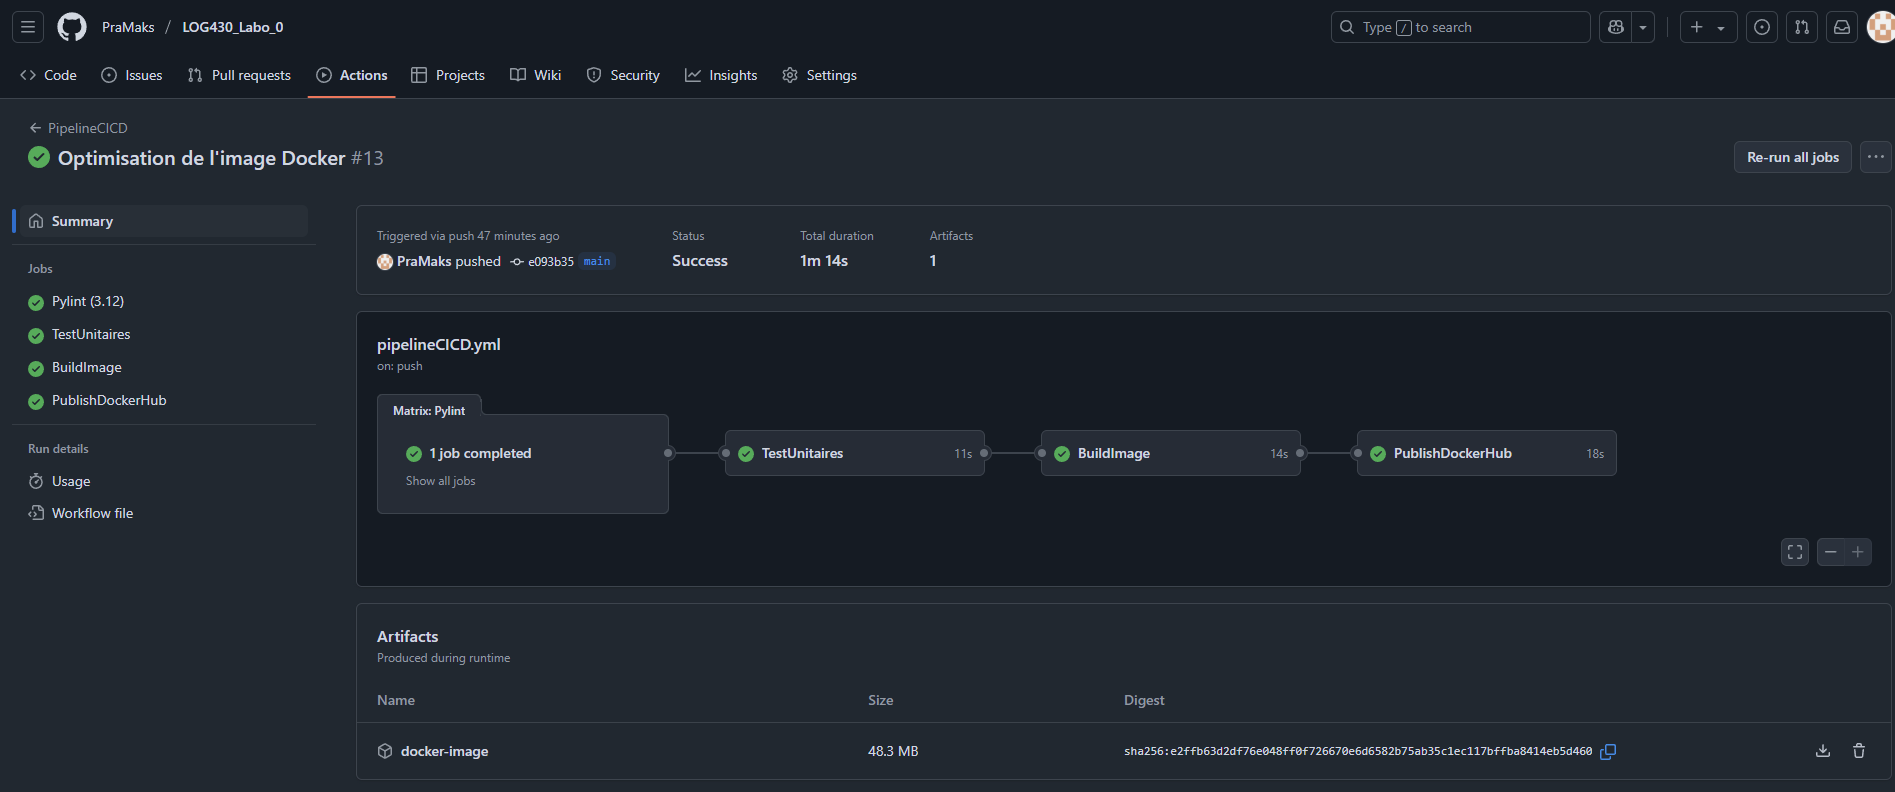
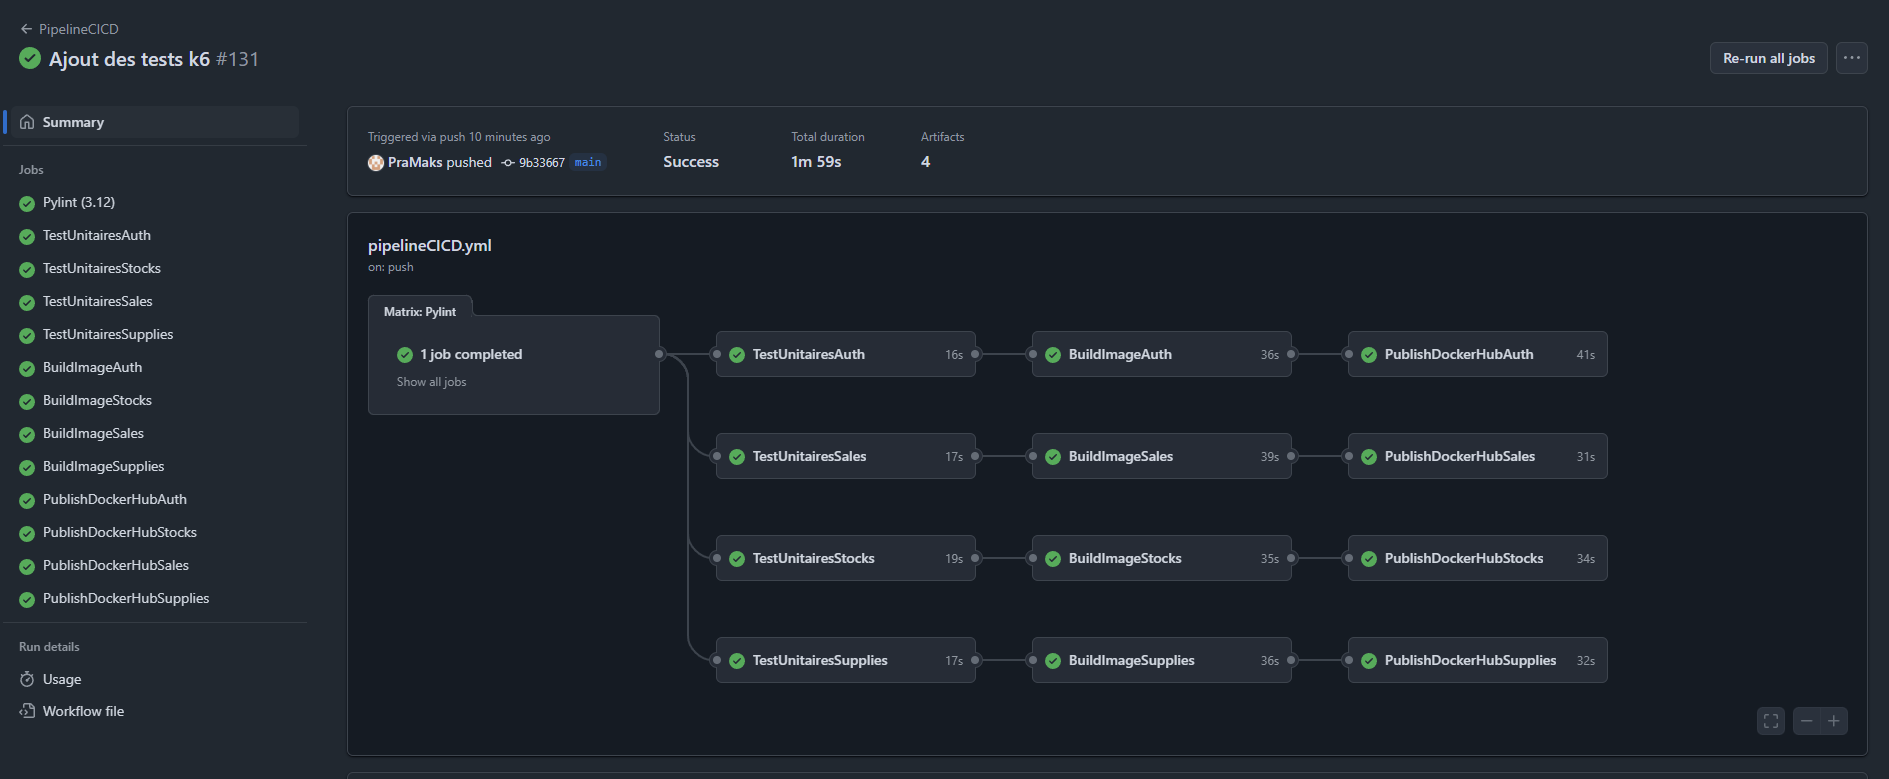
Début docum lab 5

diff --git a/README.md b/README.md
@@ -1,23 +1,23 @@
-# LOG430_Labo_3
+# LOG430_Labo_5
 
 ## Comment lancer le projet ?
-Il faut utiliser l'environnement virtuel pour faire fonctionner le projet: "source venv/bin/activate"
+Il faut utiliser l'environnement virtuel pour faire fonctionner le projet: "source venv/bin/activate" ou "venv/scripts/activate/ sur windows
 
 Il faut installer toutes les dépendances: python3 -m pip install -r requirements.txt
 
-Pour lancer le frontend: lancer "python manage.py migrate" (pour avoir accès aux sessions) dans le dossier django puis ensuite "python3 manage.py runserver"
+Pour lancer le frontend: lancer "python manage.py migrate" (pour avoir accès aux sessions) dans le dossier django puis ensuite "python3 manage.py runserver" pour lancer le frontend
 
-Pour lancer le backend: installer les dépendances avec "npm install" et ensuite "node src/backend/app.js" ou "docker compose up --build"
+Pour lancer le backend: installer les dépendances avec "npm install" et ensuite "node src/backend/app.js" dans chaque dossier de service (auth/stocks/sales/supplies) ou "docker compose up --build" pour lancer tous les containers à partir de la racine du projet.
 
-Pour lancer les tests backend: "npm test" (va lancer en mode TEST et mock la bd)
+Pour lancer les tests backend: "npm run test" (va lancer en mode TEST et mock la bd) dans le dossier d'un service
 
 ## C'est quoi ?
 
-Un système de gestion d'un réseau de magasins. Permet de consulter l'inventaire, faire une recherche d'un produit, enregistrer une vente, faire un retour de vente, consulter le stock du magasin mère, générer un rapport consolidé des ventes, visualiser les performances de magasins, mettre à jour les informations d'un produit, faire une demande de réapprovisionnement.
+Un système de gestion d'un réseau de magasins. Permet de consulter l'inventaire, faire une recherche d'un produit, enregistrer une vente, faire un retour de vente, consulter le stock du magasin mère, générer un rapport consolidé des ventes, visualiser les performances de magasins, mettre à jour les informations d'un produit, faire une demande de réapprovisionnement, créer un compte, ajouter des produits dans le panier, confirmer la vente en tant que client à partir du contenu du panier.
 
 ## Architecture/Structure du projet
 
-Une application Python avec architecture à trois niveaux
+Architecture orientée en micro-services
 
 Langage de programmation utilisé : Python (version 3.12.3)
 Ce langage est préinstallé sur la VM pour ce lab. 
@@ -26,15 +26,17 @@ Technologie utilisée pour les tests unitaires : Jest et Supertest pour Express.
 
 Frontend: Serveur Django qui utilise Python comme langue de programmation
 
-Load Balancing: Serveur NGINX entre le frontend et le backend pour distribuer la charge du trafic.
+Load Balancing: Serveur NGINX entre le frontend et le backend pour distribuer la charge du trafic pour le service des stocks.
 
-Mise en cache: Serveur Redis pour stocker la cache comme les tokens des utilisateurs parmi plusieurs instances Express.js
+Mise en cache: Serveur Redis pour stocker la cache comme les tokens des utilisateurs parmi tous les services
 
-Collecte des métriques: Serveur Prometheus qui ramasse les métriques du backend 
+Collecte des métriques: Serveur Prometheus qui ramasse les métriques du backend de tous les services
 
-Affichage des métriques sous forme de diagrammes dans un dashboard: Serveur Grafana utilise les métriques de Prometheus pour afficher sous forme de Dashboard, si le dashboard est absent sur le container, importer le dashboard "grafana_dashboard.json"
+Affichage des métriques sous forme de diagrammes dans un dashboard: Serveur Grafana utilise les métriques de Prometheus pour afficher sous forme de Dashboard, si le dashboard est absent sur le container, importer le dashboard "grafana_dashboard.json". Lorsque Grafana est ouvert la premiere fois, utiliser le compte d'utilisateur habituel (name: admin et pwd: admin) et choisir comme data source "http://prometheus:9090/" et ensuite importer le dashboard. Si le dashboard affiche des problèmes/erreurs c'est à cause des identifiants qui ont changé. Pour fix ce problème: edit chaque diagramme et juste le refresh, ça devrait regener correctement chaque diagramme.
 
-Backend: Serveur Express.js sera utilisé comme intérmédiaire entre le frontend Python et la base de données MongoDB. Utilise REST API pour gérer les requêtes.
+API Gateway: KrakenD est utilisé comme gateway pour rediriger les requetes du frontend ou de Swagger/Postman vers l'instance de service disponible. Possède aussi une politique CORS.
+
+Backend: Composé de plusieurs services utilisant un serveur Express.js chaqun et possède sa base de données MongoDB. Utilise REST API pour gérer les requêtes.
 
 Base de données : MongoDB. C'est une base de données NoSQL, les données sont stockées sous forme de documents (comme des objets JSON). Pas besoin de schéma rigide, donc parfait pour les laboratoires à venir où la structure peut évoluer. Permet la persistance des données.
 
@@ -45,11 +47,11 @@ Docker Compose est utilisée pour lancer l'image Docker générée. Docker est u
 Ce projet utilise un pipeline CI/CD avec GitHub Actions après chaque push sur la branche principale (main) pour tester le code poussé. Le pipeline contient 4 jobs:
 
     1) PyLint pour verifier le format des fichiers .py
-    2) Jest pour lancer les tests unitaires et verifier qu'il n'y a pas d'erreurs de logique
-    3) Création et sauvegarde (comme un artifact) d'une image Docker de l'application 
-    4) Utilisation de l'image Docker stoquée comme un artifact et push de celle-ci sur Docker Hub
+    2) Jest pour lancer les tests unitaires et verifier qu'il n'y a pas d'erreurs de logique sur chaque service (4 jobs isolés)
+    3) Création et sauvegarde (comme un artifact) d'une image Docker de l'application de chaque service (4 jobs isolés)
+    4) Utilisation de l'image Docker stoquée comme un artifact et push de celle-ci sur Docker Hub de chaque service (4 jobs isolés)
 
-Le lien vers l'image Docker sur Docker Hub : https://hub.docker.com/repository/docker/pramaks/labo3-express-magasin-app
+Le lien vers les images Docker sur Docker Hub : https://hub.docker.com/repository/docker/pramaks/
 
 Cette image lance le côté backend de l'application (Express.js)
 
@@ -69,6 +71,14 @@ La réussite des jobs sur le pipeline CI/CD peuvent aussi être visionnées dans
 
 ## Comment accéder à la documentation Swagger UI ?
 
-Aller sur "http://localhost:3000/api/v1/api-docs/"
+Aller sur:
+- Auth Service: "http://localhost:3010/api/v1/api-docs/"
+- ![Preuve Swagger Auth](docs/PreuveSwagger1.png)
+- Stocks Service: "http://localhost:3020/api/v1/api-docs/"
+- ![Preuve Swagger Stocks](docs/PreuveSwagger2.png)
+- Sales Service: "http://localhost:3030/api/v1/api-docs/"
+- ![Preuve Swagger Sales](docs/PreuveSwagger3.png)
+- Supplies Service: "http://localhost:3040/api/v1/api-docs/"
+- ![Preuve Swagger Supplies](docs/PreuveSwagger4.png)
 
-![Preuve Swagger](docs/Preuve_Swagger.png)
+
